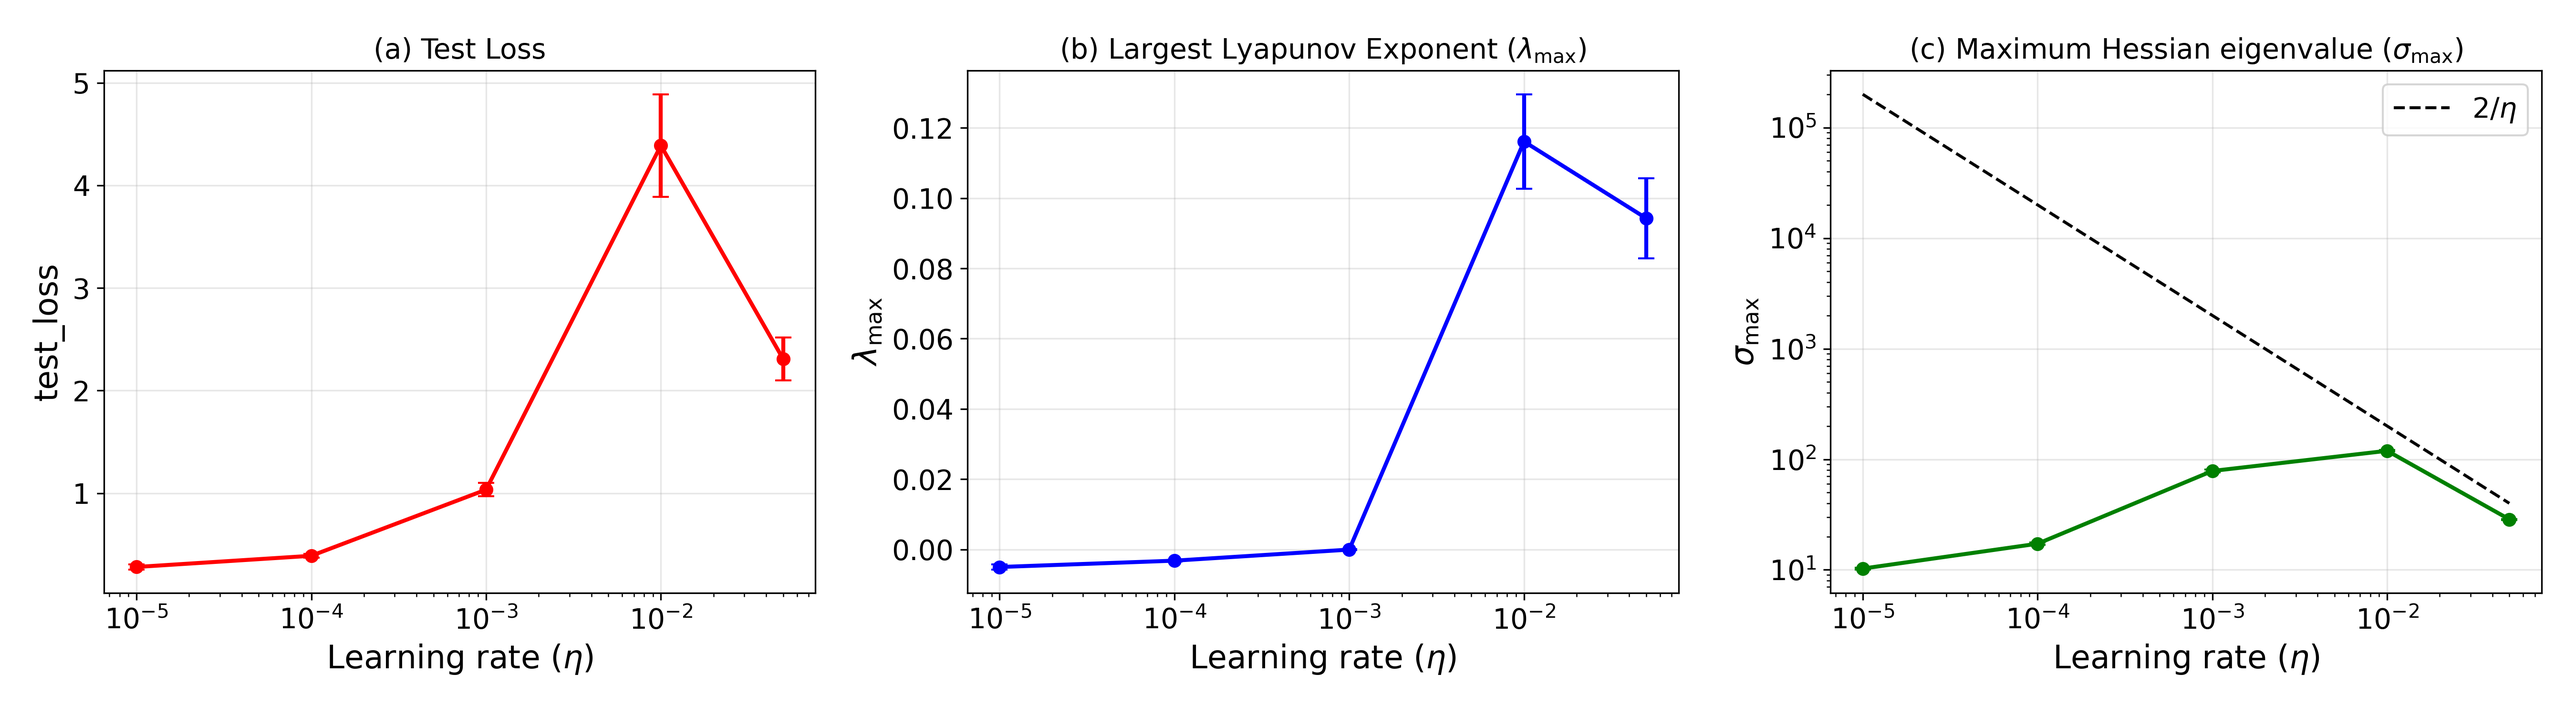
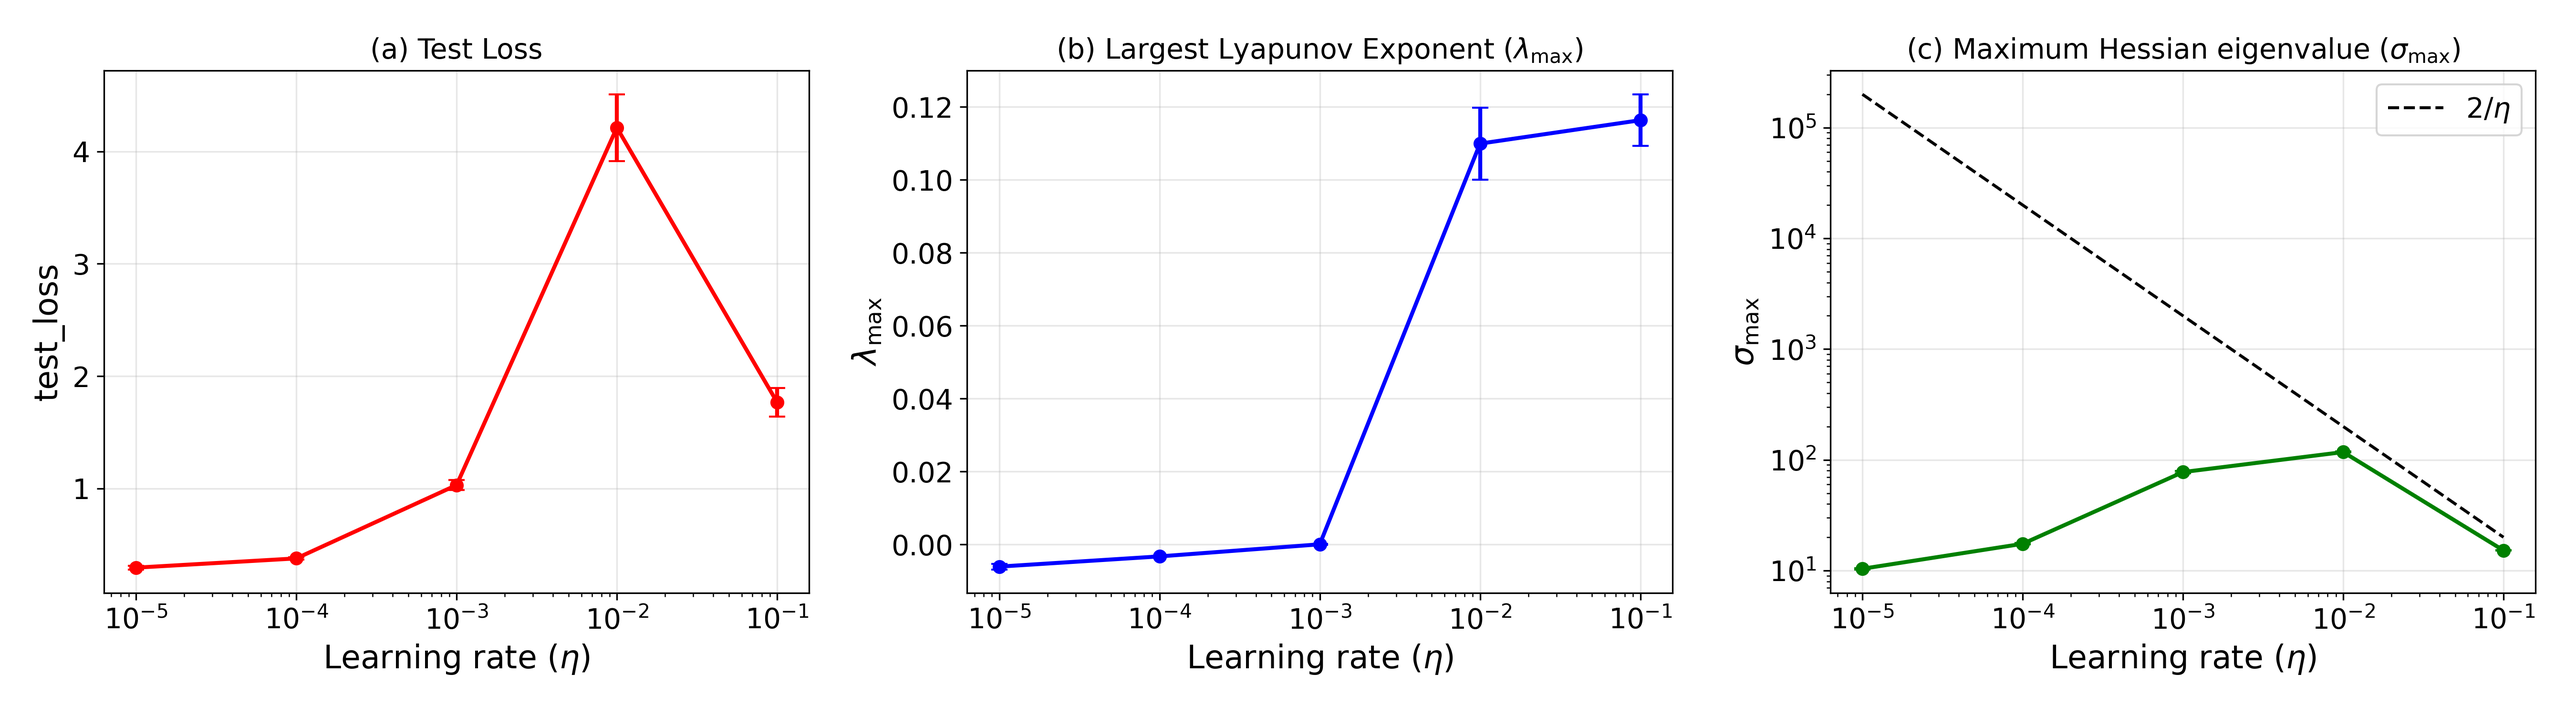
Modified Readme and script files

diff --git a/plot_results.py b/plot_results.py
@@ -17,7 +17,7 @@ plt.rcParams.update({
 
 
 # Change the data_path to point to the .npz file on your computer.
-data_path = "results_random_weight.npz"  # "results_random_lr_20" #
+data_path = "results_random_lr.npz"  # "results_random_lr_20" #
 data = np.load(data_path) #lr with random weights
 
 err_bars ='sem' #or 'std'
@@ -33,7 +33,7 @@ seeds     = data["seed"]              # seed
 sigma_max = data["sigma_max"] if "sigma_max" in data.files else None       # sigma_max
 print("Loaded:", len(lams), "entries")
 
-if "_lr_" in data_path:
+if "_lr" in data_path:
     tag = "lr"
 elif "weight" in data_path:
     tag = "weight"
@@ -108,7 +108,7 @@ sns.kdeplot(
 
 unique_lrs = np.unique(lrs)
 
-if "_lr_" in data_path:
+if "_lr" in data_path:
     palette = sns.color_palette("colorblind", n_colors=len(unique_lrs))
     sns.scatterplot(
         x=scale * lams,
@@ -182,11 +182,11 @@ sns.heatmap(
 ax.set_title("(b) Correlation Matrix")
 ax.tick_params(axis='both', which='major', labelsize=16)
 plt.tight_layout()
-outfile = f"Minimum_Viable_product_two_panel_{tag}.png"
+outfile = f"Minimum_Viable_product_{tag}.png"
 plt.savefig(outfile, dpi=300)
 plt.show()
 
-if "_lr_" in data_path and err_bars=="std":
+if "_lr" in data_path and err_bars=="std":
 
     #Plots for (a) test_loss vs learning rate  (b) lambda_max vs learning rate and (c) sigma_max vs learning rate
     # Unique LR values
@@ -242,7 +242,7 @@ if "_lr_" in data_path and err_bars=="std":
     plt.savefig(outfile, dpi=300)
     plt.show()
 
-elif "_lr_" in data_path and err_bars=="sem":
+elif "_lr" in data_path and err_bars=="sem":
     # Unique LR values
     unique_lrs = np.unique(lrs)
 

diff --git a/README.md b/README.md
@@ -27,7 +27,7 @@ offering a deeper understanding of generalization behavior.
 - `plot_results.py` — Plots the results and reproduces the figures used in the manuscript.
 
 ## Installation
-Install the required Python(Python version 3.10 recommended) packages (modify the PyTorch version in `requirements.txt` to match your device) as follows:
+Install the required Python packages as follows
 
 ## Environment Setup (Recommended: Conda)
 
@@ -40,35 +40,46 @@ Activate the environment:
 ```bash
 conda activate lyap_exp
 ```
-Install the required dependencies:
+
+Before installing the required dependencies, please modify the PyTorch version in `requirements.txt` to match your device  and then install 
+the nstall the required dependencies as follows:
 
 ```bash
 pip install -r requirements.txt
 ```
 
 
-## Execution
+## Training 
 
-To generate data to reproduce **Figure 1** in the manuscript, please run to first generate the data by running
+To generate data to reproduce **Figure 1** in the manuscript, we first train the model to convergence  for 100 random initializations 
+and then compute the Lyapunov exponents. You can train the model by executing the script file as follows:
 
 ```bash
 python3 Study_A.py
 ```
 
-This step produces a `results_random_weight.npz` file that can be analyzed and plotted.
+This script stores all the data in file  `results_random_weight.npz` that is analyzed and plotted. using `plot_results.py`. Before running the plotting script to reproduce **Figure 1**, update 
+the variable  `data_path` in **line 20** in `plot_results.py` so it points to the correct location of `results_random_weight.npz` on your system.
 
-Before running the plotting script, update **line 20** in `plot_results.py` so it points to the correct location of `results_random_weight.npz` on your system.
-
-Then run:
+Then run the following script:
 
 ```bash
 python3 plot_results.py
 
 ```
 
-## Test loss vs Max Lyapunov Exponent for different parameter initializations
+Likewise to reproduce **Figure 2**, run the following script 
 
-![Test loss vs Max Lyapunov Exponent for different intializations](Minimum_Viable_product_two_panel_weight.png)
+```bash
+python3 Study_B.py
+python3 plot_results.py
+```
+
+This script `Study_B.py`  stores all the data in file  `results_random_lr.npz` that is analyzed and plotted using `plot_results.py`
+
+##  Study A: Test loss vs Max Lyapunov Exponent for different parameter initializations
+
+![Test loss vs Max Lyapunov Exponent for different intializations](Minimum_Viable_product_weight.png)
 
 Correlation Results between `test_loss` and  `λmax` for different parameter initializations
 ```bash
@@ -93,26 +104,28 @@ Then run:
 python3 plot_results.py
 ```
 
-## Test loss vs Max Lyapunov Exponent for different learning rates
+## Study B : Test loss vs Max Lyapunov Exponent for different learning rates
 
-![Test loss vs Max Lyapunov Exponent for different learning rates](Minimum_Viable_product_two_panel_lr.png)
+![Test loss vs Max Lyapunov Exponent for different learning rates](Minimum_Viable_product_lr.png)
 
 
 Correlation Results between `test_loss` and  `λmax` for different learning rates
 ```bash
-Pearson r: 0.6308704941000116 p-value: 1.9918209194174005e-12
-Spearman ρ: 0.8588178817881787 p-value: 3.173921991080019e-30
+Pearson r: 0.6051292268836799 p-value: 2.3017803334752343e-21
+Spearman ρ: 0.848574214355359 p-value: 1.2027215178625328e-56
 ✔ Statistically significant (p < 0.05)
 ```
 
 
-# Test loss, Max Lyapunov Exponent,Max Hessian Eigenvalue (full batch) variation  for different learning rates
+# Study B : Test loss, Max Lyapunov Exponent,Max Hessian Eigenvalue (full batch) variation  for different learning rates
 
 ![Test loss, Max Lyapunov Exponent and Maximum Hessian Eigenvalue for different learning rates](three_panel_lr_sem.png)
 
+Across all three panels, error bars denote $\pm 1$ standard error of the mean (SEM) over 40 independent runs per learning rate.
 
 ## Pre-trained Model and Data
 
 Pre-generated files `results_random_weight.npz` and `results_random_lr.npz` are included to avoid the need for long training runs.
 
-You can directly execute `plot_results.py` after updating **line 20** to point to the correct path of `results_random_weight.npz` on your system.
+You can directly execute `plot_results.py` after updating **line 20** to point to the correct path of `results_random_weight.npz` on your system to reproduce **Figure 1**
+and likewise **Figure 2**.
